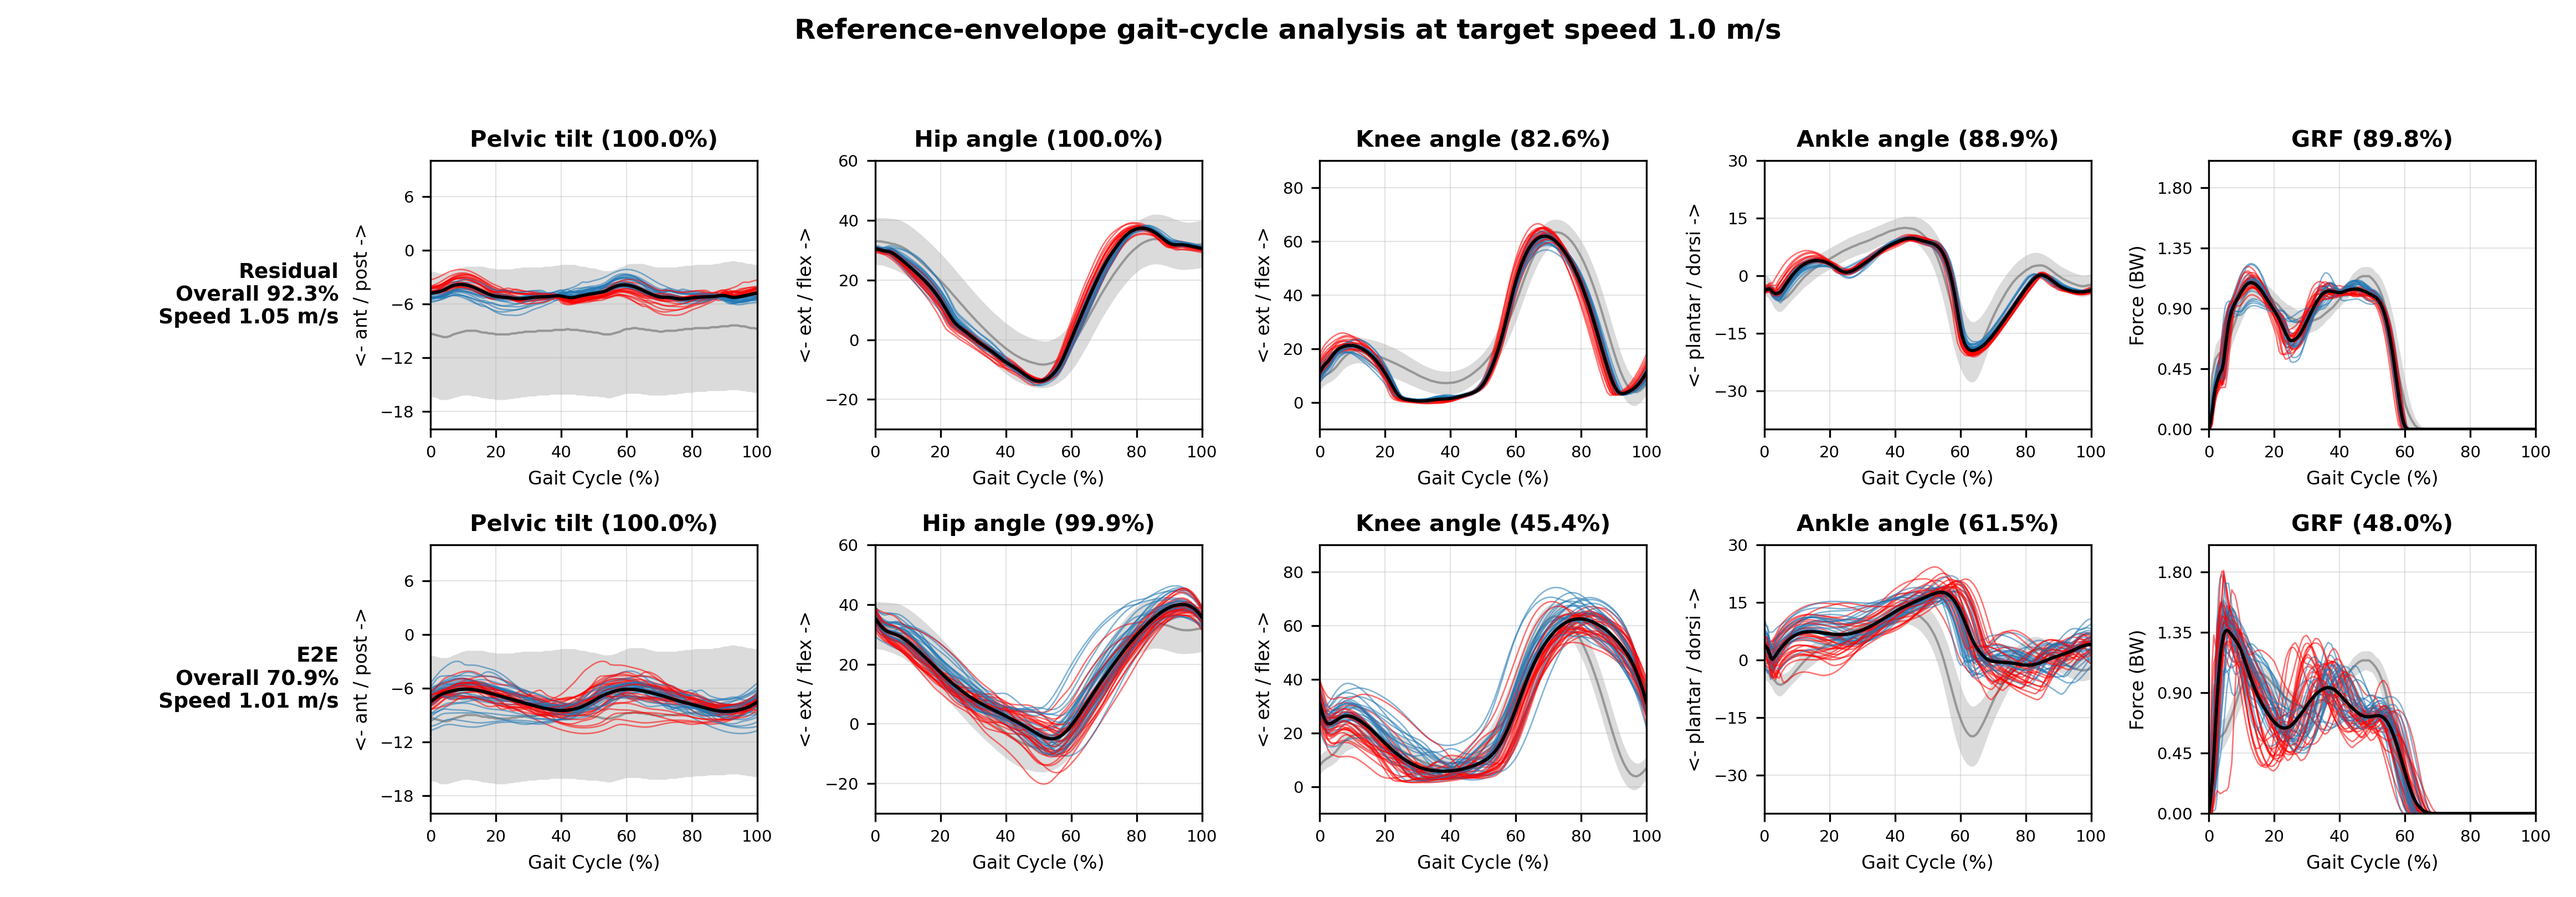
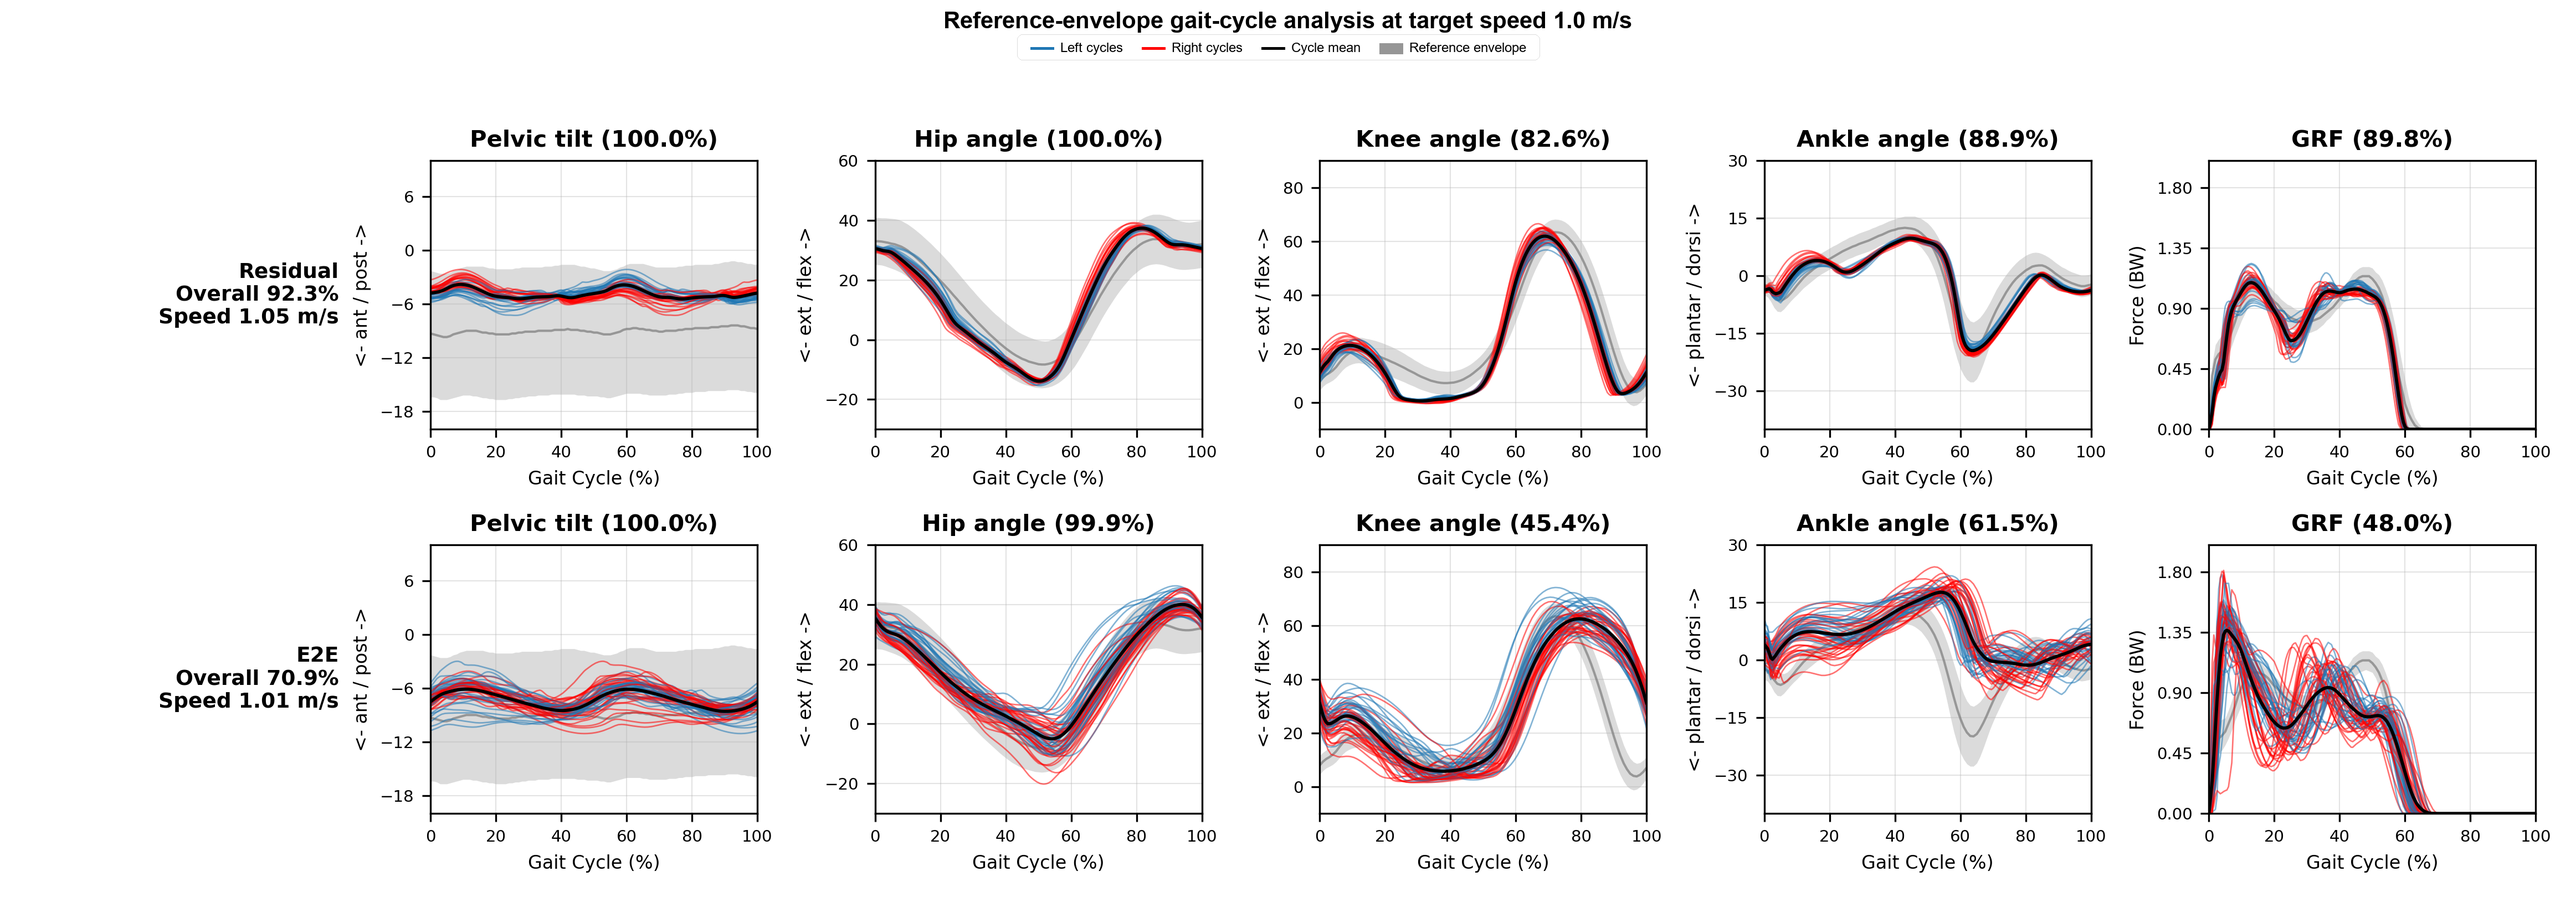
Clarify reference envelope and gait profile legend

Changed region(s): [[0.3118, 0.0, 0.686, 0.0617]]

diff --git a/main.tex b/main.tex
@@ -340,9 +340,10 @@ an STO file and analyzed using the reference-envelope gait-cycle analysis
 procedure.
 The gait cycle was normalized to 0--100\%, and the following profiles were
 computed for both legs: pelvic tilt, hip angle, knee angle, ankle angle, and
-vertical GRF. The reference envelopes were obtained from a gait-analysis
-template containing normative lower and upper bounds for each normalized
-gait-cycle profile. For each quantity, all detected left and right gait cycles
+vertical GRF. The reference envelopes were obtained from the gait-analysis
+template used for post-hoc evaluation, which provides normative lower and upper
+bounds for each normalized gait-cycle profile. These envelopes were not used
+during policy training. For each quantity, all detected left and right gait cycles
 were first time-normalized and averaged to obtain a mean simulated profile
 $\bar{y}(x)$, where $x$ denotes gait-cycle percentage. Let
 $y_{\min}(x_k)$ and $y_{\max}(x_k)$ denote the lower and upper reference
